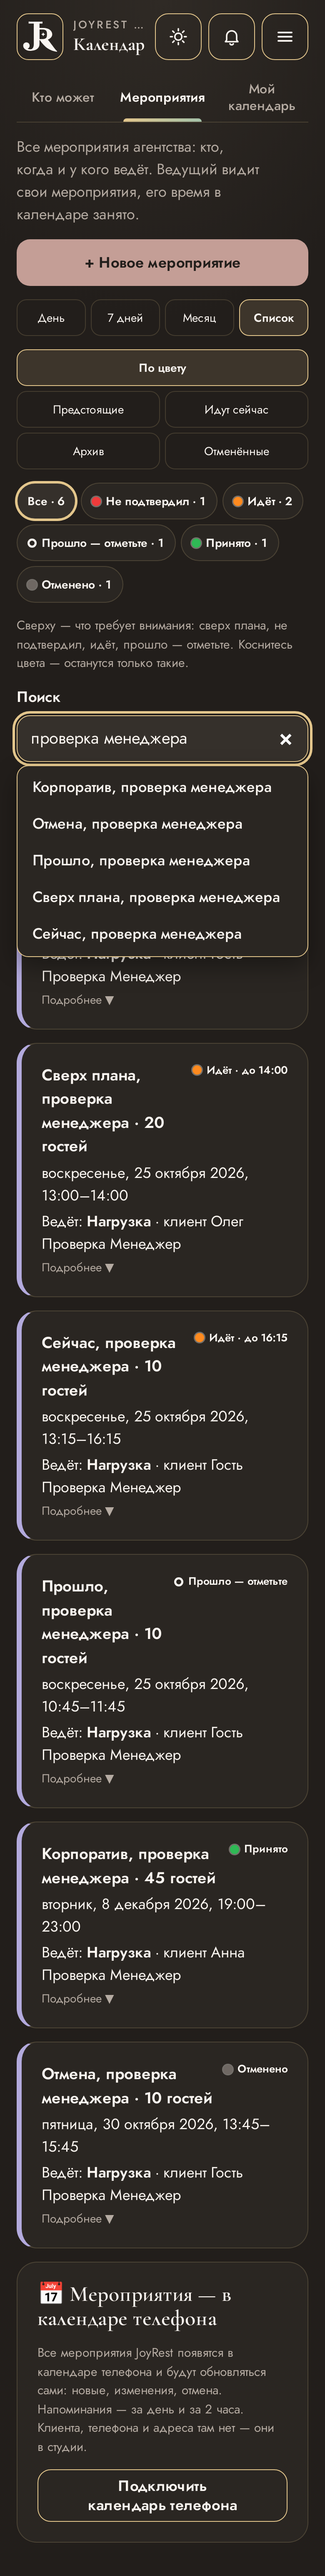
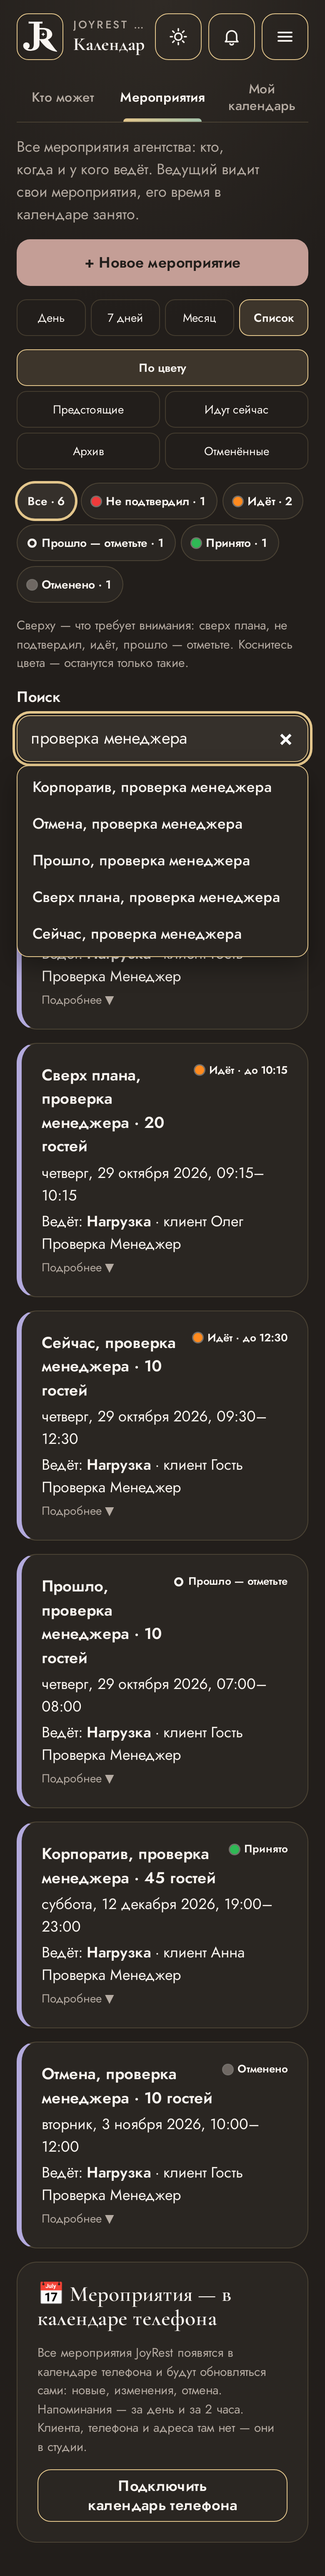
Снимки проверки пути менеджера 62df878

diff --git a/manager/README.md b/manager/README.md
@@ -3,7 +3,7 @@
 **Всё работает.**
 
 
-- ℹ Менеджер: sales-check@joy-rest.ru (роль «Менеджер по продажам»), ведущий: Нагрузка, праздник клиента: 2026-12-08
+- ℹ Менеджер: sales-check@joy-rest.ru (роль «Менеджер по продажам»), ведущий: Нагрузка, праздник клиента: 2026-12-12
 - ✅ Менеджер: мероприятие для проверки «Сверх плана» записано
 
 ## 1. Клиент на сайте: калькулятор → расчёт менеджеру
@@ -103,7 +103,7 @@
 
 ## 10. 🟣 «Сверх плана»: игра ведущего открыта после «до»
 
-- ℹ Ждём «до» 14:00 — 295 с
+- ℹ Ждём «до» 10:15 — 356 с
 - ✅ 🟣 «Сверх плана · N мин» — после «до» игра ещё открыта
 - ✅ Игру завершили — ⚪ «Прошло — отметьте»
 
@@ -127,8 +127,14 @@
 - ✅ Пока не ответили «Да» — «написали» не ставится
 - ✅ «Не получилось» — на карточке «Telegram: не получилось», не отмечен
 - ✅ «✓ Написал» — карточка на месте, отмечена
-- ✅ «Снять «написали»» убирает отметку
 - ✅ Порядок списка так и не менялся
+- ✅ Отметки на сервере: «написали» и «Telegram: не получилось»
+- ✅ После перезагрузки страницы — всё ещё «написали»
+- ✅ «Снять «написали»» убирает отметку
+- ✅ Снятая отметка снята и на сервере
+- ✅ «Получилось отправить?» остаётся после перезагрузки
+- ✅ «Да, отправил» — отметка на сервере
+- ✅ API: менеджер отметки рассылки не меняет — 403
 - ✅ Повторная загрузка: «уже в «Клиентах» — 2», добавить некого
 - ✅ Двойников нет: по одной карточке на клиента
 - ✅ API: тот же ник другим регистром — 409, двойник не создаётся
